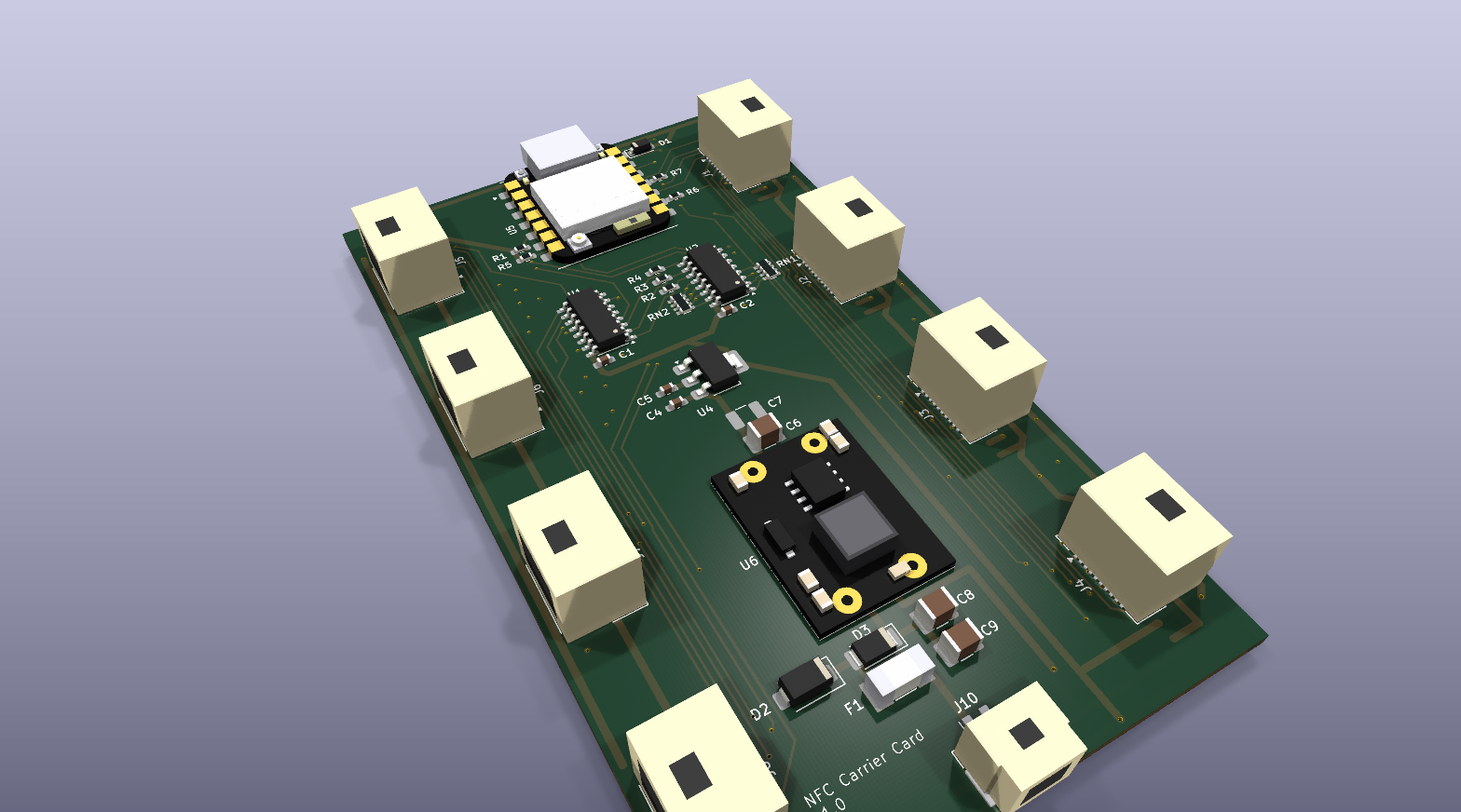
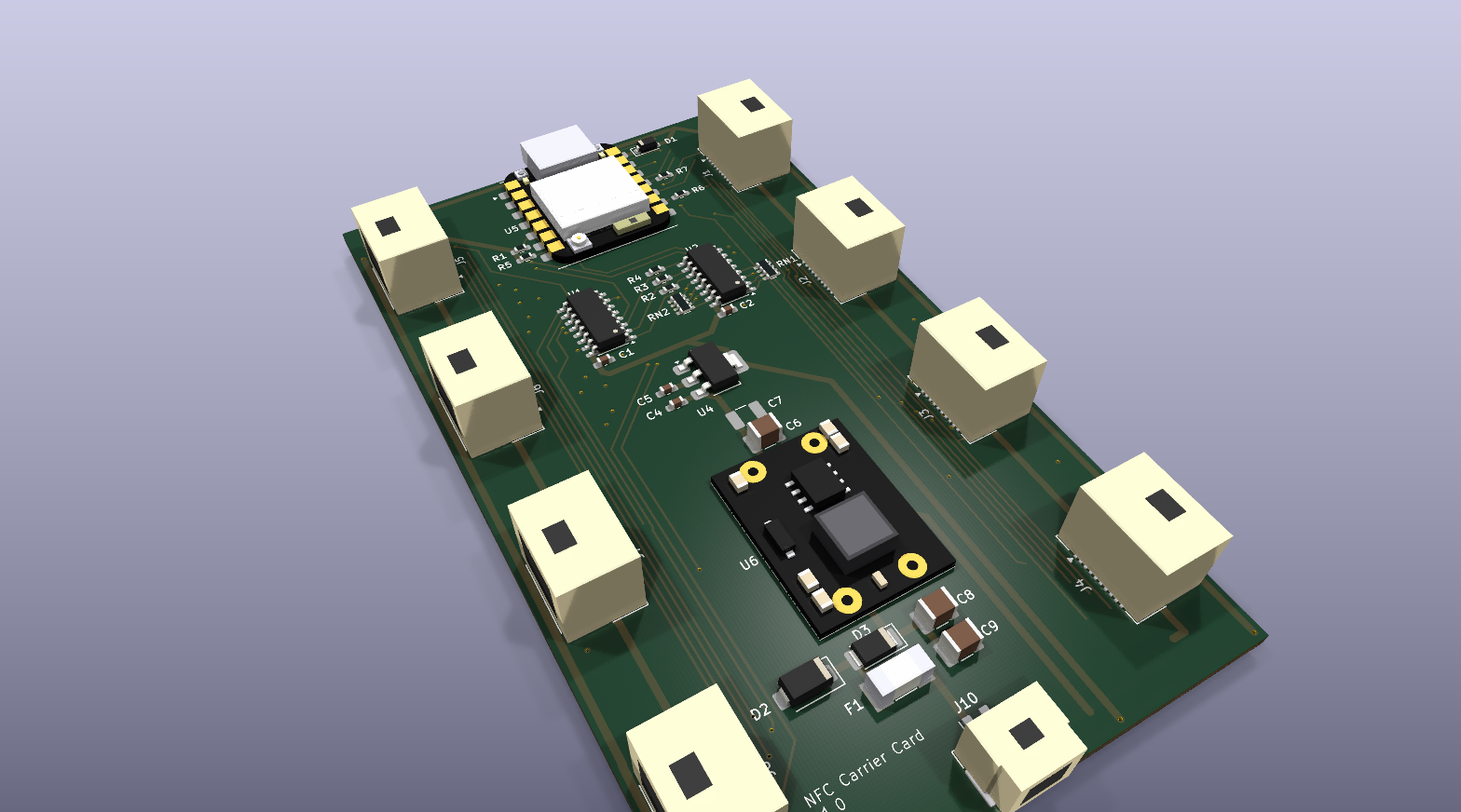
Docs and model fixes from the flat-XIAO verification pass
- README/CLAUDE.md/MEMORY.md: remaining "socketed" wording, F1 called fast-acting
  everywhere the docs speak, nail-pad-to-edge as a 1.575-1.675 mm range, XIAO placement
  numbers for the SMD footprint, post-swap DRC attribution (U5 /EN open via the B.Cu jog,
  3 shorts at pad 5), open items 1/2/3/9/13/14 updated; item 14 now lists the pending
  GUI work (re-route U5, F.Cu keep-out under the module's underside pads, hide the
  MPN/Mouser silk fields, fix the U5/F1 schematic field texts)
- Mouser CSV: F1 and U5 descriptions aligned with the BOM CSV
- Models: 0603 on the MP1584EN module moved off the corner ring, SOIC pins centred;
  render script falls back to the flat XIAO model; preview re-rendered

diff --git a/tools/gen_3d_models.py b/tools/gen_3d_models.py
@@ -188,7 +188,7 @@ def mp1584_module():
     m.box(-6.4, -0.9, -2.2, 3.3, 4.1, 4.13, IND_TOP)
     m.box(1.4, 6.3, -1.0, 2.9, 1.2, 2.75, BLACK)                          # MP1584EN SOIC-8, pins along X
     for k in range(4):
-        x = 2.05 + 1.27 * k
+        x = 1.945 + 1.27 * k                                              # pin row centred on the body
         m.box(x - 0.22, x + 0.22, 2.9, 3.85, 1.2, 1.45, TIN)
         m.box(x - 0.22, x + 0.22, -1.95, -1.0, 1.2, 1.45, TIN)
     for cx, cy in ((7.6, 6.3), (9.8, 6.3), (-8.2, -6.4), (-5.6, -6.4), (8.6, -6.3)):   # 0805 ceramics
@@ -198,7 +198,7 @@ def mp1584_module():
     m.box(-1.6, 2.1, -7.0, -5.4, 1.2, 2.3, BLACK)                         # SOD-123 diode
     m.box(-2.2, -1.6, -6.6, -5.8, 1.2, 1.5, TIN)
     m.box(2.1, 2.7, -6.6, -5.8, 1.2, 1.5, TIN)
-    m.box(-9.8, -8.6, 1.4, 3.4, 1.2, 1.9, CAP)                            # 0603 near the IN corner
+    m.box(-9.9, -8.3, -0.4, 0.4, 1.2, 1.9, CAP)                           # 0603 (1.6 x 0.8) on the IN edge, clear of the rings
     return m
 
 

diff --git a/tools/render_3d_preview.py b/tools/render_3d_preview.py
@@ -23,7 +23,7 @@ KICAD_CLI = "/Applications/KiCad/KiCad.app/Contents/MacOS/kicad-cli"
 PROJECT = os.path.dirname(os.path.dirname(os.path.abspath(__file__)))
 NAME = "pn5180_carrier"
 MODELS = {
-    "U5": "${KIPRJMOD}/carrier.3dshapes/Seeed_XIAO_ESP32C6_on_2x7_sockets.wrl",
+    "U5": "${KIPRJMOD}/carrier.3dshapes/Seeed_XIAO_ESP32C6.wrl",   # flat-soldered XIAO (carrier:Seeed_XIAO_ESP32C6_SMD)
     "U6": "${KIPRJMOD}/carrier.3dshapes/MP1584EN_Module_22x17.wrl",
     "J10": "${KIPRJMOD}/carrier.3dshapes/Molex_CLIK-Mate_502494-0270_1x02_RA.wrl",
 }

diff --git a/CLAUDE.md b/CLAUDE.md
@@ -5,7 +5,7 @@
 ## What this project is
 
 A KiCad PCB that lets 4 or 8 PN5180 NFC breakout modules (in filament spool bays,
-~30 cm away over cables) share one SPI bus with a Seeed XIAO ESP32C6 socketed at the top
+~30 cm away over cables) share one SPI bus with a Seeed XIAO ESP32C6 soldered flat at the top
 centre of the board. A 74HC138 decodes 3 address lines into 8 chip selects; a 74HC151
 muxes the 8 BUSY lines back to one GPIO. The board runs from the Prusa Core One's 24 V
 supply through an MP1584EN buck module. It is part of the owner's Filament DB / spool
@@ -18,7 +18,8 @@ part data before touching anything.
   libraries, README, BOM CSVs. The owner is actively laying out the PCB in the KiCad GUI.
 - `gen_kicad.py` is the script that originally generated the schematic, symbol library,
   footprints and BOM (MEMORY.md calls the last generator session "rev 1.5"; the script
-  itself only stamps rev 1.3, as do the sheet title block and README). The owner has since
+  itself only stamps rev 1.3, while the sheet title block and README are at 1.4 since the
+  2026-09-05 connector change). The owner has since
   hand-edited the schematic
   (JP1 and JP2 removed; other edits are possible). **The generator is now behind the
   repo. Do not run it over the repo files.** If a change is easier to make in the
@@ -45,7 +46,7 @@ part data before touching anything.
 | `~pn5180_carrier.kicad_pro.lck`, `rites next to this script#` | Not design content. The first is KiCad's lock file (expected while the GUI has the project open, stale otherwise). The second is a 57-byte shell-redirect accident holding one line of gen_kicad.py — for the owner to delete |
 | `carrier.kicad_sym`, `sym-lib-table` | Project-local symbols |
 | `carrier.pretty/`, `fp-lib-table` | Project-local footprints: XIAO castellated SMD (`tools/gen_xiao_smd_fp.py`; the 2×7-socket version is kept but unused since 2026-09-05), MP1584EN module pads, CLIK-Mate 503148-1090 2×5 receptacle (`tools/gen_clikmate_2x5_fp.py`, geometry in its `descr`), plus copies of the stock J10 (502494-0270) and F1 (NANO2) footprints that differ only in the model path and a `descr` note. All reference `${KIPRJMOD}/carrier.3dshapes/*.wrl` |
-| `carrier.3dshapes/` | Simplified VRML 3D models (generated by `tools/gen_3d_models.py`) for the parts KiCad ships no model for: 2×5 and 1×2 CLIK-Mate, XIAO on sockets, MP1584EN module, NANO2 fuse. Replace with vendor STEP files when available |
+| `carrier.3dshapes/` | Simplified VRML 3D models (generated by `tools/gen_3d_models.py`) for the parts KiCad ships no model for: 2×5 and 1×2 CLIK-Mate, XIAO (flat, plus a socketed variant), MP1584EN module (no trimmer), NANO2 fuse — six files. Replace with vendor STEP files when available |
 | `tools/` | `gen_clikmate_2x5_fp.py`, `gen_xiao_smd_fp.py`, `gen_3d_models.py`, `render_3d_preview.py` (top/iso/close-up PNGs via `kicad-cli pcb render`, run with KiCad's Python). Re-run the generators rather than hand-editing their outputs |
 | `pn5180_carrier_3d_preview.png` | Rendered 3D view of the board with the models; regenerate with the render script after layout changes |
 | `README.md` | Pinouts, GPIO map, cables, firmware sketch, layout notes, BOM |
@@ -171,14 +172,15 @@ If any of these are missing, say so rather than recreating them from memory.
   pads and the board edge (0.3 edge + 0.8 track + 0.25 Power clearance; the 1.2 mm
   quoted earlier was under-derived). The owner moved the outline out 1.5 mm per side on
   2026-09-04 18:28–18:29 (and the bottom-right corner was squared up at 23:25); measured
-  with pcbnew afterwards: 2.10–2.15 mm on J5–J8, 2.15–2.20 mm on J1–J4 (1×10 figures; with the 2×5 footprints the nail pads reach
-  1.625 mm from the edge on both sides, pcbnew 2026-09-05). The lane fits and no further
-  outline change is needed. This bullet is
+  with pcbnew afterwards: 2.10–2.15 mm on J5–J8, 2.15–2.20 mm on J1–J4 (1×10 figures; with the 2×5 footprints the nail pads sit
+  1.575–1.675 mm from the edge depending on the 0.05 mm column nudges, pcbnew
+  2026-09-05). The lane fits and no further outline change is needed. This bullet is
   the plan, not the state: the board saved on 2026-09-04 has 112 bottom-layer segments
   on 26 nets, including every signal group.
 - No copper on either layer under the XIAO's antenna end; the USB end overhangs the
-  board edge by 1–2 mm (as placed, the XIAO body ends 0.45 mm inside the edge, its courtyard
-  sits on the edge line, and only the USB-C shell outline crosses it, by ~1.05 mm).
+  board edge by 1–2 mm (as placed, the module edge is 0.50 mm inside the board edge, the
+  USB-C shell 1.05 mm proud of it, and the SMD footprint's courtyard, which includes the
+  overhang, crosses the edge by 1.3 mm).
 - Four M3 mounting holes are still to be added.
 
 ## Conventions
@@ -203,16 +205,18 @@ If any of these are missing, say so rather than recreating them from memory.
 
 1. ~~Straighten the board outline.~~ Done 2026-09-04 23:25 (bottom-right corner set to
    x = 170.5 by editing the two Edge.Cuts coordinates; outline is now 108–170.5 ×
-   52–158.5). The stored zone fills still stop at the old slanted edge: **refill zones in
-   the GUI** before the next DRC/export. `gerbers/` predates the fix.
-2. Finish PCB routing per the power plan. DRC on 2026-09-04 still lists one open each
-   on +3V3, /RST, MOSI, MISO and SCK. (No further outline move is needed — re-check the
-   edge clearances after item 12, which changes the connector pads.)
-3. Add mounting holes; connect the five orphaned top-pour GND pads (R2.2, R3.2, R4.2,
-   U1.5, J1.9 each sit on a pour island with no via — U1.5 is the 74HC138's /E2, so a
-   floating one disables every chip select); stitch the top pour (its main island has no
-   GND via, only the U5/U6 THT pads, and J1.10's island hangs off a single thermal spoke
-   of U5.13); fix the 3 starved thermals (RN1.5, U1.5, J1.9); then regenerate `gerbers/`.
+   52–158.5). The zones are currently saved **unfilled** (Update PCB from Schematic
+   dropped the fills on 2026-09-05): refill in the GUI before the next DRC/export.
+   `gerbers/` predates the fix.
+2. Finish PCB routing per the power plan (pre-swap DRC of 2026-09-04: one open each on
+   +3V3, /RST, MOSI, MISO, SCK; after the 2026-09-05 swaps see MEMORY.md "Check status
+   after the 2×5 and flat-XIAO swaps": 78 opens with zones refilled). No further outline
+   move is needed: the 2×5 nail pads sit 1.575–1.675 mm from the edge.
+3. Add mounting holes; stitch the top pour and clear its orphaned GND pads (pre-swap:
+   R2.2, R3.2, R4.2, U1.5, J1.9 on islands without a via — U1.5 is the 74HC138's /E2, so a
+   floating one disables every chip select; post-swap DRC with refilled zones shows 4
+   starved thermals RN1.5, U1.5, J7.9, J7.10 and 10 GND opens); then regenerate
+   `gerbers/`.
 4. R1/R5 placement (move beside U1 pins 4–5 or accept one bottom jog).
 5. Decide whether `gen_kicad.py` is retired or brought back in sync.
 6. Firmware: the README sketch (Arduino-ESP32 3.x, board XIAO_ESP32C6, ATrappmann
@@ -229,16 +233,19 @@ If any of these are missing, say so rather than recreating them from memory.
 9. Docs and design files disagree on U6: this file and MEMORY.md say fixed-5 V module
    without pot, but the schematic Value ("MP1584EN module (set 5.0V)"), the BOM CSV,
    README §power and the schematic's DESIGN NOTES all say adjustable, "set the pot to
-   5.00 V". Settle with the owner; it changes the U6 BOM line and the assembly notes.
+   5.00 V". Settle with the owner; it changes the U6 BOM line and the assembly notes. The
+   module the owner photographed on 2026-09-05 (basis of the 3D model) has no trimmer,
+   i.e. it is the fixed-output type.
 10. ~~README, BOM CSV, renders and schematic notes still mention JP1/JP2 and KiCad 7.~~
     Done 2026-09-04: README rewritten for KiCad 10 and the PCB; JP1/JP2 removed from the
     README, `pn5180_carrier_bom.csv`, the schematic's two DESIGN NOTES texts and the
     renders; title-block comment 1 changed from "BUSY/IRQ mux" to "BUSY mux". These
     schematic text edits were made on disk while KiCad was open — the schematic editor
     must be reverted (File > Revert) before its next save or they are lost.
-11. The XIAO as placed does not overhang: its body ends 0.45 mm inside the top edge
-    (courtyard on the edge line). Move U5 up ~1.5–2.5 mm for the agreed 1–2 mm USB
-    overhang, or relax the rule; either way the two silk_edge_clearance warnings go.
+11. The XIAO as placed does not overhang: its module edge is 0.50 mm inside the top edge
+    (the SMD footprint's courtyard, which includes the USB-C overhang, crosses the edge by
+    1.3 mm). Move U5 up ~1.5–2.5 mm for the agreed 1–2 mm USB overhang, or relax the
+    rule; either way the two silk_edge_clearance warnings go.
 12. **Finish the 2×5 connectors on the PCB.** The owner ran Update PCB from Schematic on
     2026-09-05 (commit a606ea7): J1–J8 are now the 503148-1090 footprint at the old
     positions and orientations (nail pads outboard), and the 3D-model references were
@@ -250,7 +257,9 @@ If any of these are missing, say so rather than recreating them from memory.
     drops the fills), so DRC on the saved file over-reports opens — refill first. Before
     fab, confirm the footprint's nail-pad position and pad order against Molex
     SD-503148-1090 (see MEMORY.md item 12).
-13. **F1 fuse family.** The BOM calls Littelfuse 0453001.MR a "1 A slow-blow", but the
+13. **F1 fuse family.** The schematic's F1 Value/Description, the Mouser CSV and README
+    §input stage called Littelfuse 0453001.MR a "1 A slow-blow" (the BOM CSV, README rows
+    and Mouser CSV were reworded on 2026-09-05; the schematic fields still say it), but the
     NANO2 451/453 series is Littelfuse's very-fast-acting family; Slo-Blo is 452/454
     (0454001.MR, footprint `Fuse:Fuse_Littelfuse-NANO2-452_454`). Either keep the fast fuse
     (fix the description and check hot-plug inrush into C8/C9 plus the module's input
@@ -261,4 +270,16 @@ If any of these are missing, say so rather than recreating them from memory.
     short of the new pads — extend them in the re-route. The pads now reach 1.25 mm past
     the module edge, so R1/R5 on one side and R6/R7/D1 on the other overlap U5's courtyard
     and need to move ~1.5 mm outward. The Würth sockets are off the order list. Same 1–14
-    pin numbering as before, so the netlist is unchanged.
+    pin numbering as before, so the netlist is unchanged. Found by the 2026-09-05
+    verification pass, all pending: **U5 pin 4 (/EN) is open** — its route jogged to B.Cu
+    into the old through-hole and the SMD pad has no back-side copper (add a via beside
+    pad 4 or re-route on F.Cu); three shorts where the /EN and /RST tracks cross the new
+    pad 5 (BUSY); the F.Cu tracks end at the old hole centres and overlap the new pads by
+    only ~0.1 mm — extend them 1.28 mm; the XIAO's underside carries exposed pads (BAT+,
+    BAT−, a thermal pad, test points — KiCad's stock `RF_Module:MCU_Seeed_ESP32C3` shows
+    Seeed's SMD pattern with them), so put an F.Cu keep-out under the body (no pour,
+    tracks or untented vias) or add those pads to the footprint; the scripted swap left
+    U5's MPN and Mouser fields visible on F.SilkS — hide them in the footprint properties;
+    and the schematic's U5 Description (still "2x7 pins on 15.24mm") and F1
+    Value/Description ("1A slow") need the BOM-CSV wording — edit in the GUI (KiCad was
+    open when this was found).

diff --git a/MEMORY.md b/MEMORY.md
@@ -3,7 +3,8 @@
 Context and decision log for whoever picks this up. Written on the evening of 2026-09-03
 (local, −07:00; the generator stamps its files 2026-09-04 because that session's clock
 ran on UTC) by the design session this log calls "rev 1.5" — the script itself only
-stamps rev 1.3, as do the sheet title block and README; the owner has hand-edited since.
+stamps rev 1.3, while the sheet title block and README are at 1.4 since 2026-09-05; the
+owner has hand-edited since.
 Updated 2026-09-04 for the KiCad 10 migration, with measured layout and check status
 (history item 11, "Layout state", "Check status"), and 2026-09-05 for the 2×5 CLIK-Mate
 switch (item 12), the 3D models (item 13) and the flat-mounted XIAO (item 14). All clock
@@ -158,8 +159,13 @@ times below are local.
     same 1–14 numbering as the socket footprint, so the netlist is unchanged; USB-C overhang
     and antenna marker on F.Fab; courtyard includes the overhang. U5's Footprint field and
     the BOM CSV changed, the Würth 61300711821 sockets left the Mouser order list, and U5
-    was swapped on the PCB by script (pcbnew, same position/rotation/nets; its tracks still
-    end at the old socket holes 1.27 mm inboard of the new pads). The socketed footprint and
+    was swapped on the PCB by script (pcbnew, same position/rotation/nets/fields; its F.Cu
+    tracks end at the old hole centres and overlap the new pads by only ~0.1 mm — extend
+    them 1.28 mm; /EN (pad 4) is OPEN because its route jogged to B.Cu into the old THT
+    pad; 3 shorts under pad 5 (BUSY); the swap left the MPN/Mouser fields visible on silk;
+    the XIAO's underside pads need an F.Cu keep-out — see CLAUDE.md open item 14). The
+    schematic's U5 Description and F1 fields still carry the old wording (KiCad was open;
+    pending). The socketed footprint and
     its model stay in the library. Fixes from the 3D verification pass applied at the same
     time: half-hole castellations, buttons clear of the corner pads, J10 model on the
     stock F.Fab outline, no trimmer on the U6 model.
@@ -182,13 +188,13 @@ Rows without a date come from the 2026-09-03 design session.
 | Taiyo Yuden 220 µF 1210 | MSASJ32MAB5227MPNDT1, 6.3 V X5R, Mouser 963-MSASJ32MAB5227MP, $1.72 | Mouser page |
 | Mouser prefixes | 595 TI, 538 Molex, 603 Yageo, 81 Murata, 710 Würth, 771 Nexperia, 713 Seeed, 576 Littelfuse, 994 Coilcraft | live listings |
 | Mouser numbers verified on a product page | 963-MSASJ32MAB5227MP, 538-90130-3310 (retired part) | — |
-| Mouser numbers pattern-derived (spot-check at checkout) | all Murata 81-…, 713-113991182 (XIAO SKU), 710-61300711821 | — |
+| Mouser numbers pattern-derived (spot-check at checkout) | all Murata 81-…, 713-113991182 (XIAO SKU); 710-61300711821 retired with the sockets | — |
 | Würth 1×7 socket (dropped 2026-09-05 — XIAO soldered flat) | 61300711821 (WR-PHD series confirmed) | search |
 | JLCPCB 2-layer limits | 0.127 trace/space, 0.3 drill, via 0.45–0.5 pad, 0.5 hole-hole, 0.2 edge, silk 0.15/1.0 | JLC capability pages |
 | KiCad on the owner's Mac | 10.0.6; `kicad-cli` at `/Applications/KiCad/KiCad.app/Contents/MacOS/kicad-cli`; stock libs under `…/Contents/SharedSupport/{symbols,footprints,3dmodels}`; bundled Python with `pcbnew` under `…/Contents/Frameworks/Python.framework/Versions/Current/bin/python3` | run 2026-09-04 |
 | Stock footprints used by the PCB after the 2026-09-05 swaps, all present in the 10.0 library | nine names: Capacitor_SMD C_0603/C_1210 HandSolder, Resistor_SMD R_0603 HandSolder + R_Array_Convex_4x0603, Diode_SMD D_SMA/D_SOD-123/D_SOD-128, SOIC-16_3.9x9.9mm_P1.27mm, SOT-223-3_TabPin2; F1, J10, J1–J8, U5, U6 use `carrier:` footprints | file check 2026-09-05 |
 | Board outline | Rectangle, edge-line centres X 108.0–170.5, Y 52.0–158.5 → 62.5 × 106.5 mm, 0.05 mm stroke (bottom-right corner was at x 170.0 from 18:28 until fixed 23:25) | pcbnew 2026-09-04 23:25 |
-| Connector tab pad to board edge (1×10 footprints, pre-swap; with the 2×5 footprints the nail pads reach x 109.625 / 168.875, i.e. 1.625 mm from the edge on both sides — pcbnew 2026-09-05; the ≥ 1.35 mm 3V3 lane still fits) | J5–J8: tab pads reach x 110.10–110.15, 2.10–2.15 mm to the edge. J1–J4: tab pads reach x 168.30–168.35, 2.15–2.20 mm. End connectors' tab pads are 1.25 mm from the top/bottom edges; J10's tab pads 0.65 mm from the bottom edge | pcbnew 2026-09-04 23:25 |
+| Connector tab pad to board edge (1×10 footprints, pre-swap; with the 2×5 footprints the nail pads reach x 109.575–109.625 / 168.825–168.875, i.e. 1.575–1.675 mm from the edge (min 1.575 on J6/J8) — pcbnew 2026-09-05; the ≥ 1.35 mm 3V3 lane still fits) | J5–J8: tab pads reach x 110.10–110.15, 2.10–2.15 mm to the edge. J1–J4: tab pads reach x 168.30–168.35, 2.15–2.20 mm. End connectors' tab pads are 1.25 mm from the top/bottom edges; J10's tab pads 0.65 mm from the bottom edge | pcbnew 2026-09-04 23:25 |
 | Power netclass patterns | `+5V`, `+3V3`, `+24V`, `5V_*`, `24V_*`, `*D2-K*` (Default 0.25/0.25 via 0.6/0.3; Power 0.8/0.25 via 0.8/0.4) | .kicad_pro 2026-09-04 |
 | Rasteriser | `cairosvg` absent everywhere; `qlmanage -t -s 2400 -o existing_dir file` → `file.png` works for PDF, footprint SVGs and the portrait board SVG (square render — crops the A3 schematic SVG, use the PDF); Pillow 12 in Homebrew python3 3.14 only | run 2026-09-04 |
 
@@ -231,9 +237,9 @@ D9=20 D10=18 (write code with the D names).
   (0.3 edge + 0.8 track + 0.25 Power clearance; the 1.2 mm quoted earlier was
   under-derived), so it now fits everywhere and no further move is needed. Tab-column
   gaps between connectors are ~2 mm — enough for the feeder vias.
-- The XIAO body (F.Fab centreline) ends 0.45 mm inside the top edge and its courtyard sits
-  on the edge line; only the USB-C shell outline (silk) crosses the edge, by ~1.05 mm —
-  less than the 1–2 mm overhang the layout rule asks for.
+- The XIAO module edge is 0.50 mm inside the top edge and the USB-C shell 1.05 mm proud of
+  it (the SMD footprint's courtyard, which includes the overhang, crosses the edge by
+  1.3 mm) — less than the 1–2 mm overhang the layout rule asks for.
 - Power plan delivered as `power_routing_full.png` (not in the repo): 24 V in the bottom
   strip; 5 V trunk from OUT+ down the module centreline, right of C8/C9, via; 3V3 trunk
   from U4's tab down at ~1.3 mm off the module's right pads, via; both feeders on the
@@ -264,15 +270,16 @@ D9=20 D10=18 (write code with the D names).
   (Update PCB from Schematic drops fills), so DRC on the file as saved over-reports:
   336 violations, 149 unconnected, 0 parity. With zones refilled on a scratch copy (do not
   `--refill-zones` the repo file): **304 violations, 78 unconnected, 0 parity** — all of
-  it the pending re-route: 44 shorts (old NSS stubs/vias on the new GND pad 9 of J1–J8, a
-  GND via in J3's nail pad), 97 clearance, 27 hole clearance (SCK vias under pad 1 of
+  it the pending re-route: 44 shorts (41 at J1–J8: old NSS stubs/vias on the new GND pad 9,
+  a GND via in J3's nail pad; 3 at U5 pad 5 under the /EN and /RST tracks), 97 clearance, 27 hole clearance (SCK vias under pad 1 of
   J2/J3/J4), 75 mask bridges, 27 dangling tracks, 1 dangling via, 4 starved thermals
   (RN1.5, U1.5, J7.9, J7.10), 5 courtyard overlaps (U5's castellation pads now reach
   1.25 mm past the module edge, into R1/R5 on one side and R6/R7/D1 on the other — move
   those five ~1.5 mm outward), silk 8 overlap + 7 over copper + 2 edge, 7 text-size
   warnings. Unconnected by net: GND 10, +3V3 10, ~{RST} 9, SCK 9, +5V 8, MOSI 8, MISO 7,
-  ~{EN} 1, one each on NSS0–7 and BUSY0–7 (U5's tracks end at the old socket holes,
-  1.27 mm short of the new pads). ERC 82 and the netlist (38 nets, 189 nodes, 0 problems)
+  ~{EN} 1 (U5 pad 4 is open: its route jogged to B.Cu into the old through-hole), one
+  each on NSS0–7 and BUSY0–7 (U5's F.Cu tracks end at the old hole centres, overlapping
+  the new pads by only ~0.1 mm). ERC 82 and the netlist (38 nets, 189 nodes, 0 problems)
   are unchanged. The 2026-09-04 baseline below applies only to the pre-swap board.
 
 ## Check status (kicad-cli 10.0.6, 2026-09-04, files as saved 22:06 — pre-swap baseline)
@@ -359,7 +366,7 @@ D9=20 D10=18 (write code with the D names).
 - ~~Move the board outline out 0.5 mm per side?~~ Done by the owner on 2026-09-04
   18:28–18:29, by 1.5 mm per side; tab-pad-to-edge is now 2.10–2.15 mm left, 2.15–2.20 mm
   right (pcbnew, after the 23:25 corner fix) and the 3V3 lane fits. (1×10 figures; the
-  2×5 nail pads sit 1.625 mm from the edge on both sides — still fits.)
+  2×5 nail pads sit 1.575–1.675 mm from the edge — still fits.)
 - ~~Straighten the right edge?~~ Owner chose x = 170.5; done 23:25. Refill zones and
   re-export gerbers in the GUI.
 - Delete PWR_FLAG #FLG01 on U6 OUT+ (the one ERC error)? Update the embedded `power:`
@@ -372,7 +379,7 @@ D9=20 D10=18 (write code with the D names).
   (schematic Value, BOM CSV, README, schematic DESIGN NOTES)? The files say adjustable;
   the owner's photo of the module (2026-09-05, used for the 3D model) shows no trimmer,
   i.e. the fixed-output type — confirm, then drop the pot-setting text everywhere.
-- Is routing signals on B.Cu (112 segments today) accepted, or does the "two feeders
+- Is routing signals on B.Cu (104 segments today) accepted, or does the "two feeders
   only" bottom-layer rule still stand?
 - U5 sits 0.45 mm inside the top edge instead of overhanging 1–2 mm: move it up, or
   relax the rule?

diff --git a/README.md b/README.md
@@ -3,7 +3,7 @@
 Carrier board that lets 4 or 8 PN5180 breakout modules plug in over ~30 cm cables with
 Molex CLIK-Mate 1.50 mm dual-row (2×5) positive-lock connectors (CLIK-Mate is the white
 latching family used on the Prusa LoveBoard) and share one SPI bus with a Seeed Studio
-XIAO ESP32C6 socketed at the top centre of the board. It runs from the printer's 24 V supply through an MP1584EN buck
+XIAO ESP32C6 soldered flat at the top centre of the board. It runs from the printer's 24 V supply through an MP1584EN buck
 module soldered flat onto the carrier. Every part is SMD except the buck module's four
 through-hole pads; the XIAO is soldered flat by its castellations. A 74HC138 decodes
 3 address lines into the 8 chip selects; a 74HC151 muxes the 8 BUSY lines back to a
@@ -35,7 +35,7 @@ Author: hyiger · Rev 1.4 · KiCad 10 files (saved with 10.0.6; KiCad 9 and olde
 | `CLAUDE.md`, `MEMORY.md` | Design guide and decision log: verified part data, layout state, ERC/DRC baseline, open items |
 | `.gitignore` | Keeps KiCad's transient files (`.history/`, `.kicad_prl`, lock files), kicad-cli check outputs and `renders/` out of git |
 | `carrier.3dshapes/` | Simplified VRML 3D models (boxes with the right envelopes and colours) for the parts KiCad ships no model for: the 2×5 and 1×2 CLIK-Mate receptacles, the XIAO (flat, plus a socketed variant), the MP1584EN module (black no-trimmer type), the NANO2 fuse. Generated by `tools/gen_3d_models.py`; drop in vendor STEP files when you have them |
-| `tools/` | `gen_clikmate_2x5_fp.py` (the 503148-1090 footprint), `gen_3d_models.py` (the models above), `render_3d_preview.py` (top, isometric and close-up PNGs of the board via `kicad-cli pcb render`; run with KiCad's bundled Python) |
+| `tools/` | `gen_clikmate_2x5_fp.py` (the 503148-1090 footprint), `gen_xiao_smd_fp.py` (the XIAO castellated footprint), `gen_3d_models.py` (the models above), `render_3d_preview.py` (top, isometric and close-up PNGs of the board via `kicad-cli pcb render`; run with KiCad's bundled Python) |
 | `pn5180_carrier_3d_preview.png` | Rendered 3D view of the board with those models |
 
 Footprints reference the stock KiCad libraries and every name was verified against
@@ -136,7 +136,7 @@ case (the module's 1.5 A limit at 5 V), typically well under that, so the PSU's 
 is not a concern. The xBuddy's MMU port also carries firmware-switched 24 V, but it's only
 enabled when an MMU is configured, so the PSU terminals are the practical tap.
 
-**Input stage (all on the carrier):** F1 1 A slow-blow → D2 SMAJ28A TVS (clamps motor
+**Input stage (all on the carrier):** F1 1 A (NANO2 451/453, fast-acting — see open item 13) → D2 SMAJ28A TVS (clamps motor
 regen spikes; a reversed input forward-biases it and blows F1) → D3 PMEG6030EP reverse
 Schottky (keeps the reversed input off C8/C9 and the module; F1 still blows through D2,
 so replace it after fixing the miswire) → C8/C9 2 × 10 µF 50 V → U6.
@@ -154,7 +154,9 @@ Three things about this module on a 24 V rail:
   keep spikes off it — don't leave them out to save parts.
 - It's adjustable. **Set the pot to 5.00 V with a meter before mounting it**, then lock
   the pot with a dab of nail varnish. A bumped pot puts up to 20 V into the readers and
-  the XIAO. If you can get a fixed-5 V variant, prefer it.
+  the XIAO. If you can get a fixed-5 V variant, prefer it — the module photographed on
+  2026-09-05 (the one modelled in 3D) has no trimmer, i.e. it is that type; see CLAUDE.md
+  open item 9 before trusting this paragraph.
 - The seller's own guidance is 1.5 A continuous without a heatsink. The carrier's real
   draw is well under 1 A (one RF field at a time), so that's fine; give it some copper
   under the pads anyway.
@@ -167,7 +169,7 @@ thin-wall UL1061/UL1571-type wire and check the specific wire's maximum OD again
 (common UL1007 24 AWG at ~1.5 mm is too fat, and some UL1061 24 AWG is specified at
 1.3 mm); 24 AWG for 5V/GND is plenty at ≤ 0.25 A per bay — and a 2.54 mm DuPont-style
 female on the module end (or solder to the module header). Power: the 24 V cable stays on the 2.00 mm family, 502439-0200 housing
-with 502438 terminals on 22 AWG. The XIAO is socketed on the carrier, so bay and power
+with 502438 terminals on 22 AWG. The XIAO is soldered to the carrier, so bay and power
 cables are the only cables.
 
 The housing latches inside the receptacle (the CLIK; one inner lock on the 10-circuit
@@ -183,7 +185,7 @@ end off and solder it to the module header if you'd rather skip crimping.
 Eight 30 cm unterminated stubs hanging off one SPI bus is a real transmission-line load,
 so the design takes three precautions:
 
-- **R6/R7 (33 Ω) in series with SCK and MOSI**, a few mm from the ESP32 socket pins and
+- **R6/R7 (33 Ω) in series with SCK and MOSI**, a few mm from the XIAO's SCK/MOSI pads and
   before the bus fans out — proper source termination for the star, taking the edge off
   the ESP32's ~2 ns rise times. Fit 0 Ω if you scope it and it's clean; 47–68 Ω if you
   see ringing.
@@ -217,7 +219,7 @@ during the decoder transition.
 ## Firmware sketch (ATrappmann PN5180 library)
 
 ```cpp
-// Seeed XIAO ESP32C6 in the carrier sockets (Arduino-ESP32 core 3.x, board "XIAO_ESP32C6")
+// Seeed XIAO ESP32C6 soldered to the carrier (Arduino-ESP32 core 3.x, board "XIAO_ESP32C6")
 #define PIN_A0   D0
 #define PIN_A1   D1
 #define PIN_A2   D2
@@ -275,7 +277,8 @@ state and the ERC/DRC baseline are tracked in `MEMORY.md`.
 - Ground plane on one layer; SPI signals short, routed as a star or short daisy chain
   from U5 to the bay connectors. With 8 loads plus cable capacitance, ≤ 1 MHz SPI.
 - U5 at the top centre, USB-C end at the top board edge (the rule is a 1–2 mm overhang;
-  as placed it sits 0.45 mm inside), antenna end (opposite the USB) pointing inboard with
+  as placed the module edge sits 0.5 mm inside and only the USB-C shell is 1.05 mm proud),
+  antenna end (opposite the USB) pointing inboard with
   a copper keep-out on both layers under it. The XIAO is soldered flat by its
   castellations (no sockets); it also has an external-antenna u.FL if the rack's metal
   gets in the way.
